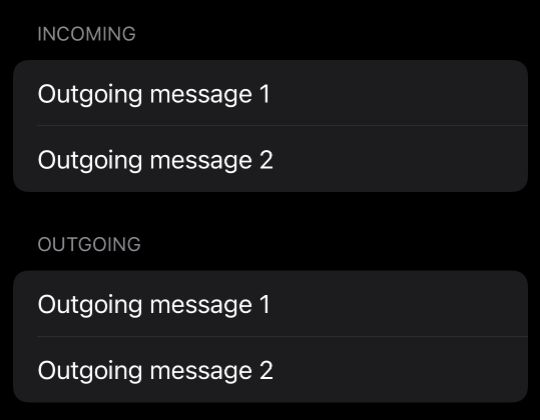
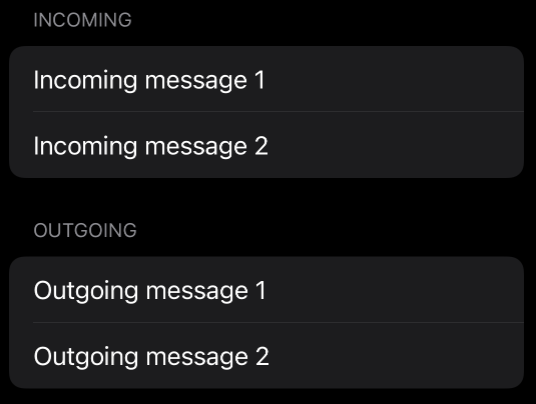
sections examples updated in mastering list post

diff --git a/_posts/2021-06-16-mastering-list-in-swiftui.md b/_posts/2021-06-16-mastering-list-in-swiftui.md
@@ -57,8 +57,8 @@ Sometimes we need to display the content of the list view in different sections.
 ```swift
 struct ContentView: View {
     @State private var incoming: [Message] = [
-        Message(content: "Outgoing message 1"),
-        Message(content: "Outgoing message 2")
+        Message(content: "Incoming message 1"),
+        Message(content: "Incoming message 2")
     ]
 
     @State private var outgoing: [Message] = [
